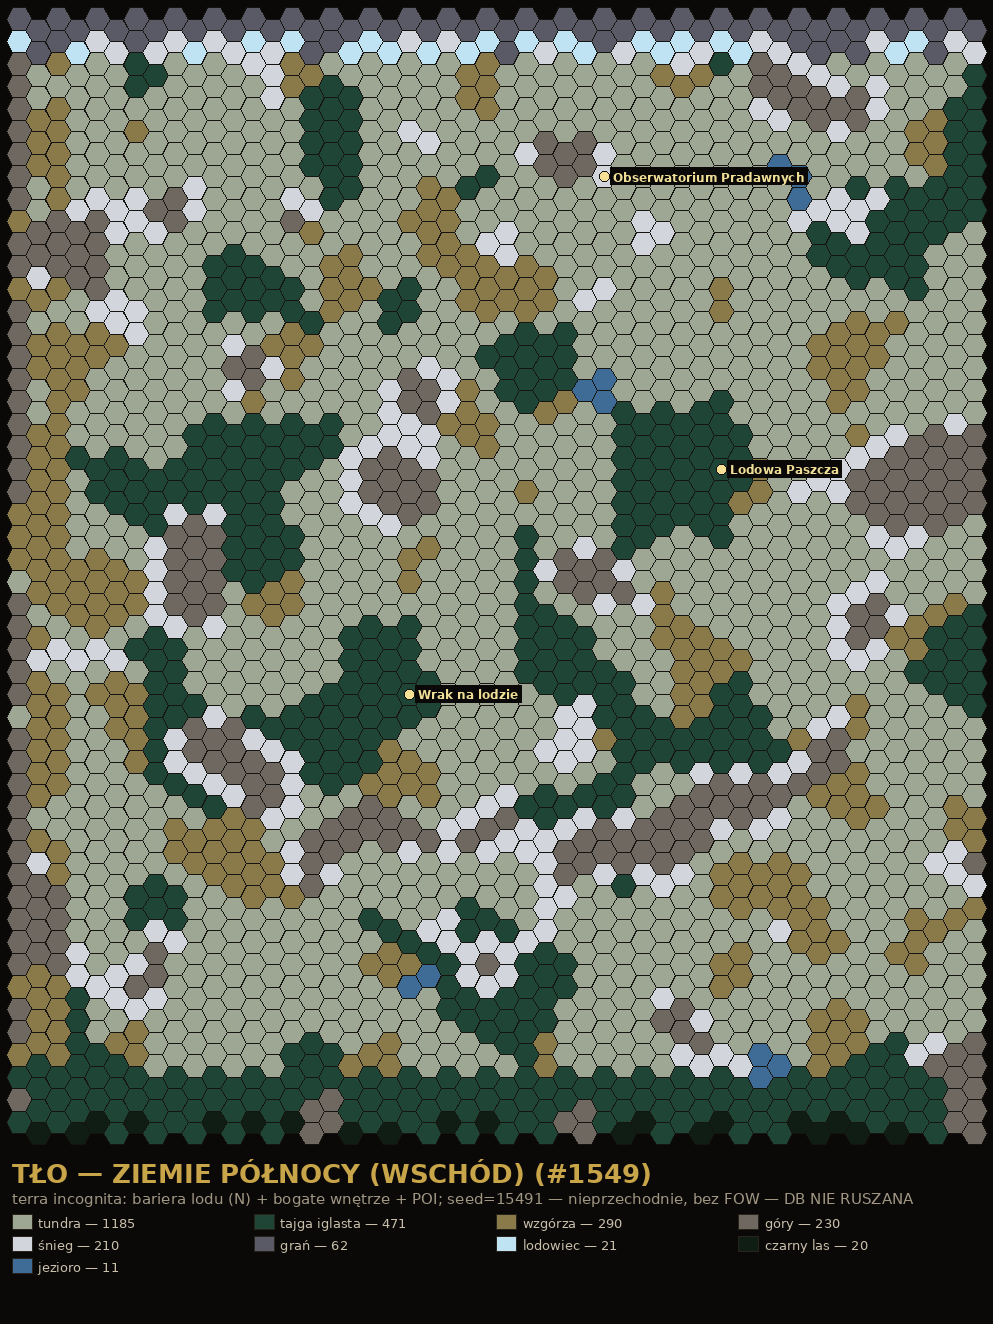
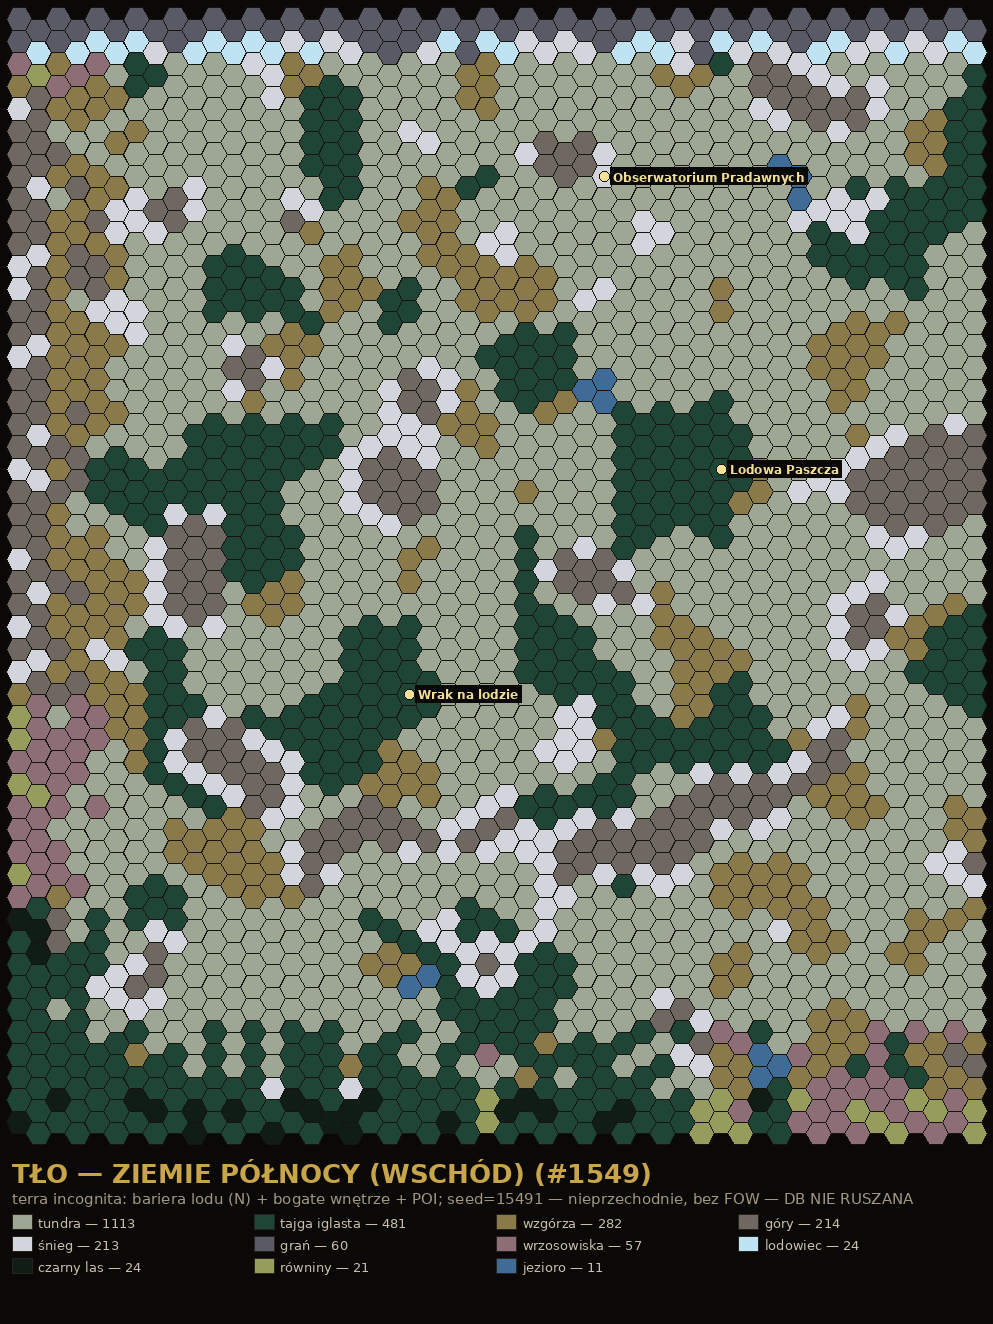
feat(map): Ziemie Północy — data-driven blend terenu do sąsiadów #1549 #1545
Tła NW/NE nie wpisywały się w ukształtowanie przyległych krain: gradienty były
ślepe (pas 3 hexów per krawędź bloku, bez patrzenia na faktyczny teren sąsiada),
a wnętrze stykało się twardo z Graniami/Nizinami/Czarnoborem (17+6+1+22+3
twardych skoków wg border_reconcile).

build_region_tlo_polnoc.py:
- paint_gradients (ślepy) → blend_to_neighbors (data-driven): BFS od FAKTYCZNYCH
  hexów sąsiadów (kanon data/regions/*.json), rampa 8 hexów w głąb tła ku
  rodzinie konkretnego odcinka granicy — Granie=góry→pogórze, Czarnobór=śnieżna
  tajga/czarny las, Niziny/Kresy=wrzos→równiny, woda sąsiada=dolina (nigdy góra
  przy rzece/jeziorze, #1545). Szum deterministyczny strzępi krawędź rampy.
- enforce_edge_compat: strażnik na samej granicy — hex tła nie może tworzyć
  zakazanej pary (FORBIDDEN z border_reconcile) z ŻADNYM obcym sąsiadem;
  retyp na mostek hills→tundra→heath. Sąsiedzi (kanon Piotra) NIETKNIĘCI.

Wynik: NW 322+4 / NE 315+2 przemalowanych; wszystkie 5 styków
(NW↔Granie, NW↔Niziny, NW↔Kresy, NE↔Granie, NE↔Czarnobór) = 0 twardych skoków.
Nowe JSON-y krain zacommitował auto-snapshot (65eea036). Podglądy stref styku
w docs/world/previews/seam_*.png.

diff --git a/scripts/build_region_tlo_polnoc.py b/scripts/build_region_tlo_polnoc.py
@@ -219,38 +219,146 @@ def paint_barrier(hexes, local, rng):
     return n
 
 
-def paint_gradients(hexes, local, cfg, rng):
-    """Pogórze od Grań (E/W) + zejście południowe (heath / taiga→czarny_las)."""
-    band = 3  # głębokość pasa gradientowego
-    grania_side = cfg["grania_side"]
+# ── BLEND DO SĄSIADÓW (data-driven, #1545/#1549) ─────────────────────────────
+# Zamiast ślepych pasów per-krawędź: czytamy FAKTYCZNY teren sąsiadów z kanonu
+# (data/regions/*.json), BFS od obcych hexów w głąb tła i rampujemy teren ku
+# rodzinie konkretnego odcinka granicy. Tam gdzie Granie mają śnieg → tło ma
+# góry; gdzie Granie mają rzekę/jezioro → tło ma dolinę (NIE górę, #1545);
+# gdzie Niziny mają równiny → tło schodzi wrzosem w równiny; gdzie Czarnobór
+# ma las → tło gęstnieje w śnieżną tajgę/czarny las.
+BLEND_BAND = 8            # głębokość rampy (hexy w głąb tła)
 
-    for k, (c, r) in local.items():
-        if r < BARRIER_ICE_ROWS:
-            continue  # bariera nienaruszalna
+BLEND_FAM = {
+    "mountain": "MOUNTAIN", "snow": "MOUNTAIN", "grania": "MOUNTAIN",
+    "lodowiec": "MOUNTAIN", "peak": "MOUNTAIN",
+    "hills": "HILL", "foothills": "HILL", "przelecz": "HILL",
+    "forest": "FOREST", "czarny_las": "FOREST", "las_iglasty": "FOREST",
+    "plains": "OPEN", "heath": "OPEN", "step": "OPEN", "tundra": "OPEN",
+    "grassland": "OPEN", "pola_uprawne": "OPEN",
+    "river": "WATER", "lake": "WATER", "water": "WATER", "sea": "WATER",
+    "morze": "WATER", "brod": "WATER", "coast": "WATER",
+    "swamp": "WETLAND", "bagno": "WETLAND", "trzesawisko": "WETLAND",
+}
 
-        # ── pogórze od Siwych Grań (E dla NW / W dla NE) ──
-        edge_d = (W - 1 - c) if grania_side == "E" else c
-        if edge_d < band:
-            # bliżej krawędzi = więcej gór, dalej = wzgórza; z szumem
-            if edge_d == 0 and rng.random() < 0.6:
-                hexes[k]["hex_type"] = "mountain"
-            elif rng.random() < 0.65:
-                hexes[k]["hex_type"] = "hills" if hexes[k]["hex_type"] not in ("mountain",) \
-                    else "mountain"
 
-        # ── zejście południowe (ostatnie rzędy) ──
-        south_d = (H - 1) - r
-        if south_d < band:
-            if cfg["south_mode"] == "heath":
-                # miękkie zejście do Koronnych Nizin: wrzosowiska / równiny
-                if hexes[k]["hex_type"] not in ("lake", "mountain"):
-                    hexes[k]["hex_type"] = "heath" if rng.random() < 0.6 else "plains"
-            else:  # taiga → czarny las (do Czarnoboru)
-                if hexes[k]["hex_type"] not in ("lake", "mountain"):
-                    if south_d == 0 and rng.random() < 0.5:
-                        hexes[k]["hex_type"] = "czarny_las"
-                    else:
-                        hexes[k]["hex_type"] = "las_iglasty"
+def load_foreign(self_region):
+    """Kanon terenu wszystkich innych krain: {(q,r): hex_type}."""
+    foreign = {}
+    for p in sorted((ROOT / "data" / "regions").glob("region_*.json")):
+        data = json.loads(p.read_text(encoding="utf-8"))
+        if data.get("region") == self_region:
+            continue
+        for h in data["hexes"]:
+            foreign[(h["q"], h["r"])] = h["hex_type"]
+    return foreign
+
+
+def blend_to_neighbors(hexes, local, rng, foreign, band=BLEND_BAND):
+    """Rampa terenu tła ku rodzinie faktycznego sąsiada (BFS od granicy).
+
+    Zwraca liczbę przemalowanych hexów. Bariera (górne rzędy), jeziora i grań
+    nietykalne. Szum deterministyczny (rng slotu) strzępi krawędź rampy."""
+    from collections import deque, Counter as C
+
+    dist, votes = {}, {}
+    dq = deque()
+    for k in hexes:
+        v = C()
+        for nb in ax_neighbors(*k):
+            if nb in foreign:
+                f = BLEND_FAM.get(foreign[nb])
+                if f:
+                    v[f] += 1
+        if v:
+            dist[k] = 1; votes[k] = v; dq.append(k)
+    while dq:
+        k = dq.popleft()
+        if dist[k] >= band:
+            continue
+        for nb in ax_neighbors(*k):
+            if nb in hexes:
+                if nb not in dist:
+                    dist[nb] = dist[k] + 1; votes[nb] = C(votes[k]); dq.append(nb)
+                elif dist[nb] == dist[k] + 1:
+                    votes[nb].update(votes[k])
+
+    n = 0
+    for k, d in sorted(dist.items()):
+        h = hexes[k]
+        c, r = local[k]
+        if r < BARRIER_ICE_ROWS or h["hex_type"] in ("lake", "grania"):
+            continue
+        fam_n = votes[k].most_common(1)[0][0]
+        # siła rampy: 1.0 na krawędzi → 0 na końcu pasa, ze strzępiącym szumem
+        p = (band - d + 1) / band + 0.25 * (rng.random() - 0.5)
+        cur = h["hex_type"]; new = None
+        if fam_n == "MOUNTAIN":
+            if d <= 2:
+                new = "mountain" if rng.random() < 0.7 else "snow"
+            elif d <= 4 and rng.random() < p:
+                new = "mountain" if rng.random() < 0.35 else "hills"
+            elif d <= 6 and rng.random() < p:
+                new = "hills"
+        elif fam_n == "HILL":
+            if d <= 3 and rng.random() < p:
+                new = "hills"
+        elif fam_n == "FOREST":
+            if d <= 2:
+                new = "czarny_las" if rng.random() < 0.35 else "las_iglasty"
+            elif d <= 5 and rng.random() < p:
+                new = "las_iglasty"
+        elif fam_n == "OPEN":
+            if d <= 2:
+                # równiny/wrzos przy krawędzi; góry/las ustępują (zakaz MOUNTAIN↔OPEN)
+                new = "plains" if rng.random() < 0.4 else "heath"
+            elif d <= 5 and rng.random() < p:
+                if cur in ("mountain", "snow"):
+                    new = "hills"                  # pogórze mostkuje
+                elif cur not in ("hills",):
+                    new = "heath"
+        elif fam_n == "WATER":
+            # dolina przy wodzie sąsiada: nigdy góra/śnieg przy rzece/jeziorze (#1545)
+            if d <= 2 and cur in ("mountain", "snow", "lodowiec"):
+                new = "tundra"
+        if new and new != cur:
+            h["hex_type"] = new; n += 1
+
+    # sprzątanie: żaden hex tła przy obcej wodzie nie może być górą/śniegiem
+    for k in [k for k, d in dist.items() if d == 1]:
+        if hexes[k]["hex_type"] in ("mountain", "snow", "lodowiec"):
+            if any(BLEND_FAM.get(foreign[nb]) == "WATER"
+                   for nb in ax_neighbors(*k) if nb in foreign):
+                hexes[k]["hex_type"] = "tundra"; n += 1
+    return n
+
+
+def enforce_edge_compat(hexes, foreign):
+    """Twardy strażnik #1545 na samej granicy: hex tła nie może tworzyć
+    zakazanej pary z ŻADNYM obcym sąsiadem (sąsiadów NIE ruszamy — kanon
+    Piotra). Retyp na pierwszy zgodny mostek: hills (uniwersalny) → tundra →
+    heath. Wyjątek: grań bariery (rząd 0, kraniec świata) zostaje."""
+    from border_reconcile import fam, is_harsh
+    fixed, stuck = 0, []
+    for _ in range(3):   # retyp może odsłonić kolejną parę — domknij iteracyjnie
+        dirty = False
+        for k in sorted(hexes):
+            h = hexes[k]
+            if h["hex_type"] in ("grania", "lake"):
+                continue
+            ffams = [fam(foreign[nb]) for nb in ax_neighbors(*k) if nb in foreign]
+            if not ffams:
+                continue
+            if not any(is_harsh(fam(h["hex_type"]), f) for f in ffams):
+                continue
+            for cand in ("hills", "tundra", "heath"):
+                if not any(is_harsh(fam(cand), f) for f in ffams):
+                    h["hex_type"] = cand; fixed += 1; dirty = True
+                    break
+            else:
+                stuck.append(k)
+        if not dirty:
+            break
+    return fixed, stuck
 
 
 def place_poi(hexes, local, cfg):
@@ -308,12 +416,24 @@ def main():
     lakes = carve_lakes(hexes, local, rng)
     print(f"  jeziora: {len(lakes)} hexów")
 
-    print("[3] gradienty: pogórze od Grań + zejście południowe")
-    paint_gradients(hexes, local, cfg, rng)
+    print("[3] blend do sąsiadów (data-driven z kanonu, pas %d hexów)" % BLEND_BAND)
+    foreign = load_foreign(region)
+    n_blend = blend_to_neighbors(hexes, local, rng, foreign)
+    print(f"  przemalowane: {n_blend} hexów")
+    # blend mógł postawić górę przy naszym jeziorze — pogórze mostkuje (#1545)
+    for k in list(hexes):
+        if hexes[k]["hex_type"] == "mountain" and any(
+                hexes[nb]["hex_type"] == "lake"
+                for nb in ax_neighbors(*k) if nb in hexes):
+            hexes[k]["hex_type"] = "hills"
 
     print("[4] bariera północna: grań (nieprzechodnia) + lodowiec/śnieg")
     n_bar = paint_barrier(hexes, local, rng)
     print(f"  bariera: {n_bar} hexów")
+
+    print("[4b] strażnik krawędzi: zero zakazanych par z obcymi sąsiadami")
+    n_fix, stuck = enforce_edge_compat(hexes, foreign)
+    print(f"  domknięte: {n_fix}; nierozwiązywalne: {len(stuck)} {stuck[:5]}")
 
     print("[5] POI (label-only)")
     poi = place_poi(hexes, local, cfg)
